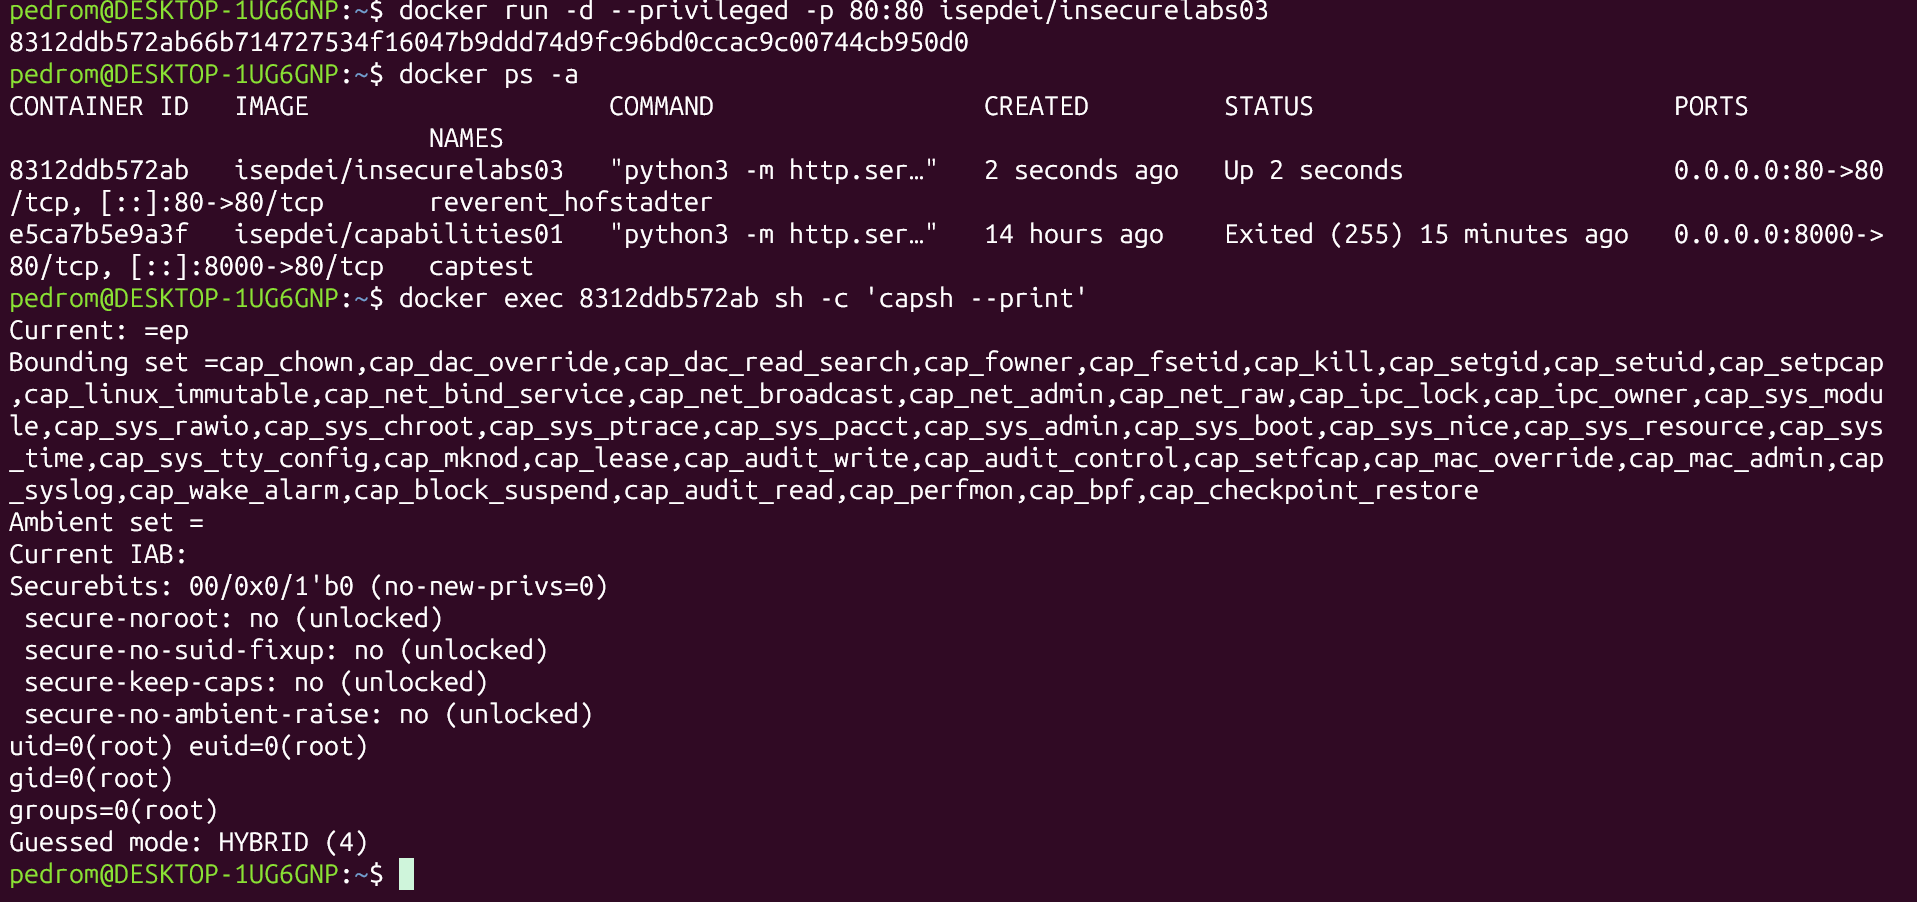
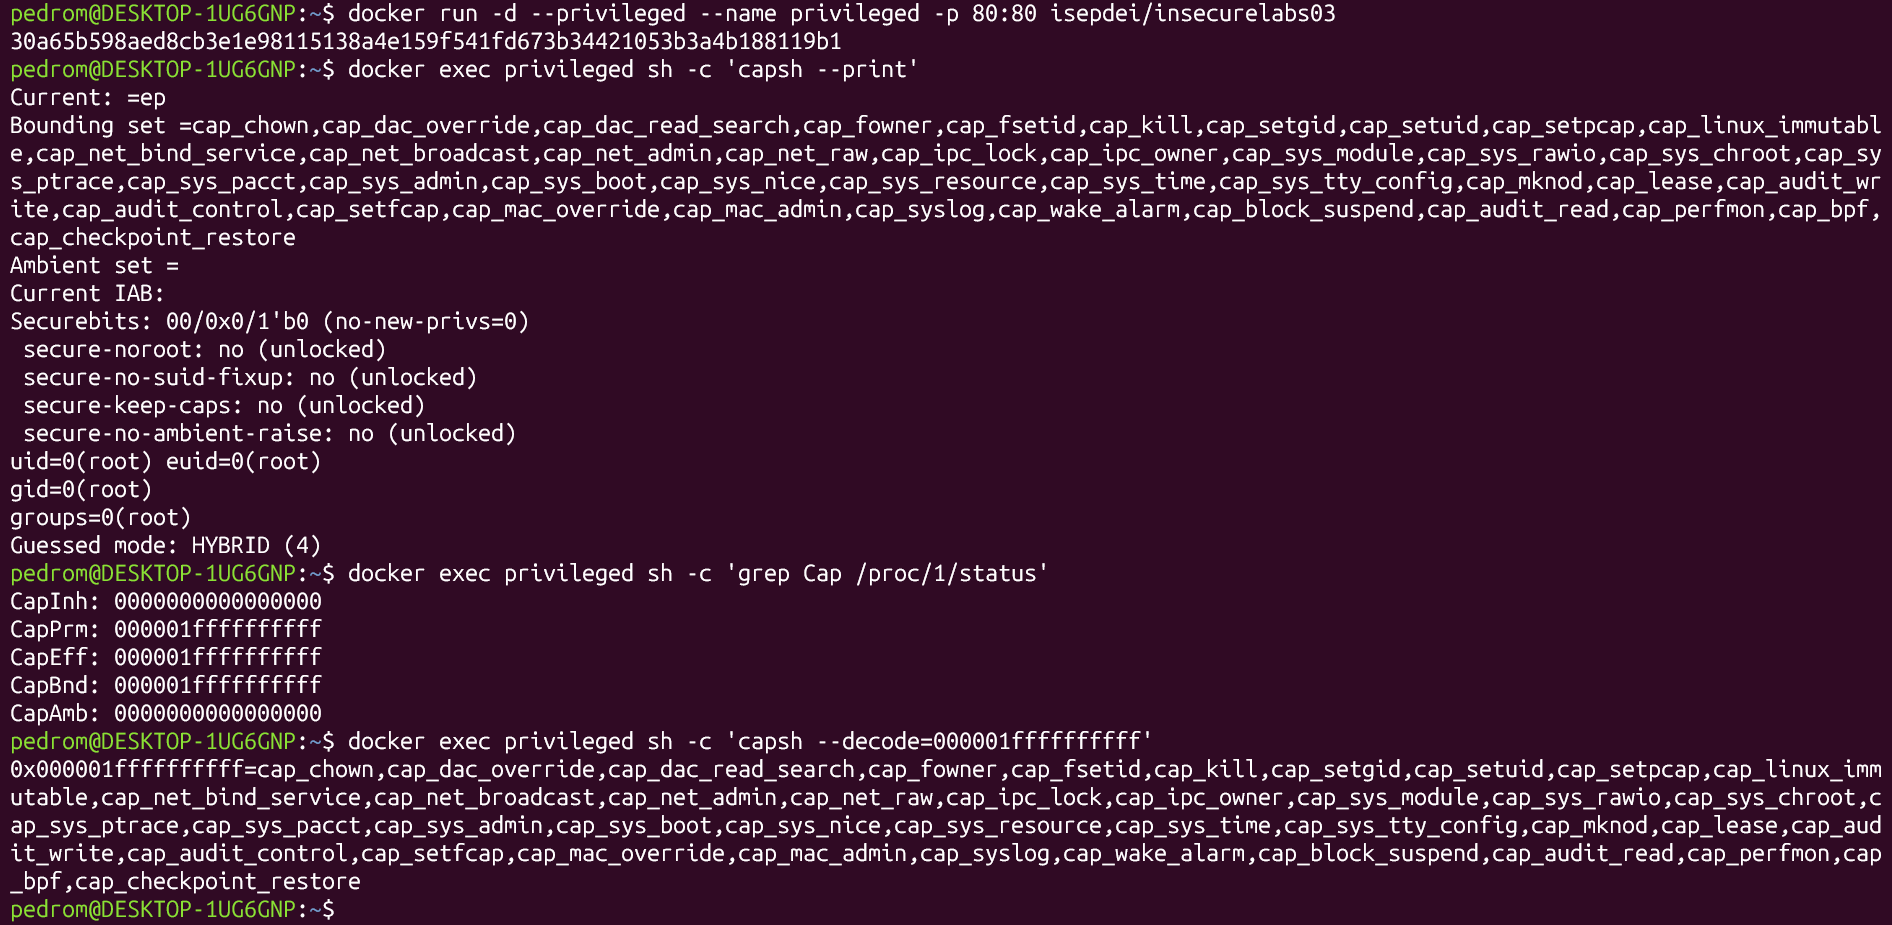
final commit

Changed region(s): [[0.0, 0.0, 0.9979, 0.9933], [0.4054, 0.5898, 0.5301, 0.6519], [0.5301, 0.3104, 0.5613, 0.3415]]

diff --git a/README.md b/README.md
@@ -25,6 +25,7 @@ This project was developed in a Linux environment.
 > **USER**=user01_team15
 > 
 > OBS.: we use the `--rm` flag to stop the container when it exits
+> [Click here for the video](./videos/Q2.mp4)
 
 ---
 
@@ -41,8 +42,8 @@ This project was developed in a Linux environment.
 
 ![Image Diving](./images/dive.png)
 
-> The image above confirms the expected behaviour and when selecting the `COPY . .` layer we can see that the `.env` file is present in the filesystem.
-> 
+> The image above confirms the expected behaviour and when selecting the `COPY . .` layer we can see that the `.env` file is present in the filesystem. This layer is identified by a SHA-256 digest, which is a cryptographic hash of the layer's exact contents — any change to those contents, even a single byte, produces a completely different hash. Since each team was assigned its own `insecurelabs02` tag with a unique `API_KEY` and `USER` baked into its `.env` file, the contents of the `COPY . .` layer differ from team to team, even though the Dockerfile and the rest of the project structure are identical. This is why our layer's digest may not match another team's.
+
 > The next step is to extract the contents of that file and retrieve the new secrets. By diving into the image we can see `.env` is inside the `app` directory which serves as a starting point for our search. We followed the procedure below:
 > - We exported all layers into a single tarball using `docker save isepdei/insecurelabs02:team15 -o img.tar`. For each layer within the image, `img.tar` includes a tarball inside the `blobs/sha256` **containing their corresponding file system**.
 > - Find out which tarball corresponds to the layer we want. Given our dive into the image, we know we are looking for the one containing the `app/.env` path.
@@ -274,7 +275,7 @@ $ docker exec captest sh -c 'capsh --decode=00000000a80425fb'
 
 **Q14:**
 
-> By running the docker with the `--priviledged` flag, Scott is giving all processes within the container **every single Linux capability**. By using the `print` command from before we can confirm this:
+> By running the docker with the `--priviledged` flag, Scott is giving all processes within the container **every single Linux capability**. By using the `print` and `grep` commands from before we can confirm this:
 
 ![All Caps](./images/all-caps.png)
 
